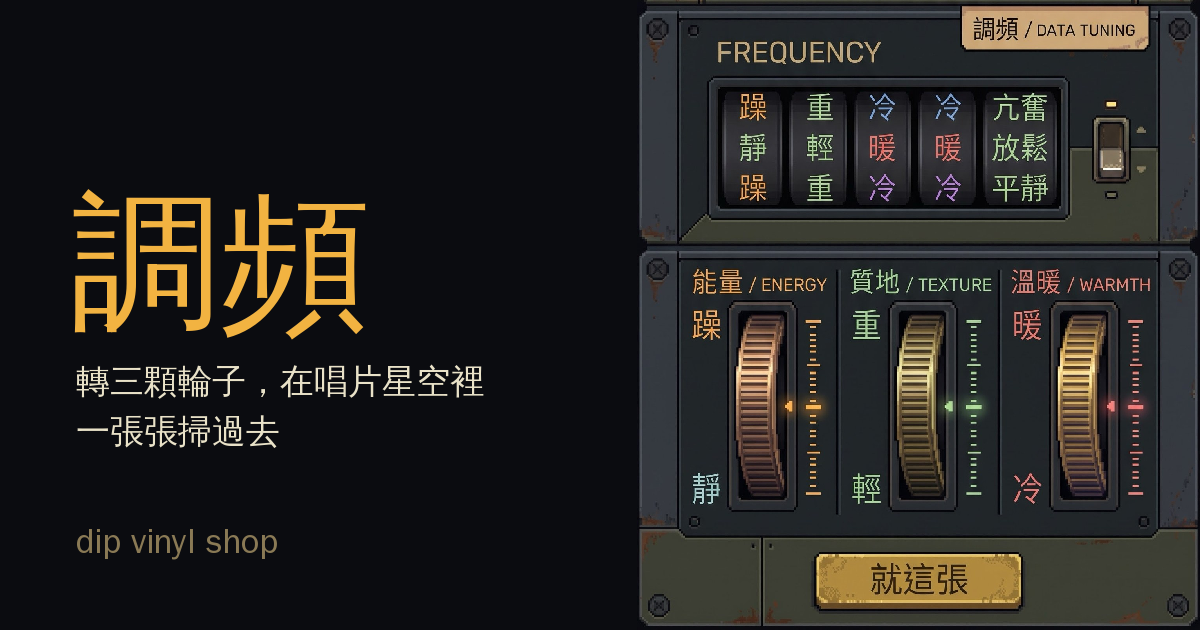
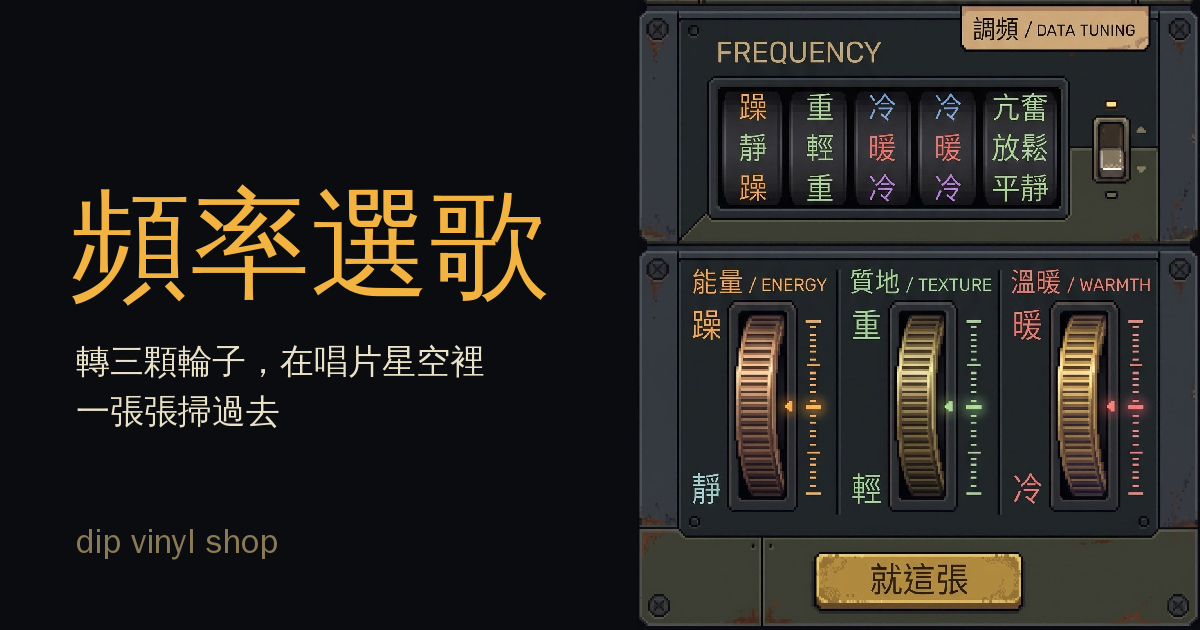
頻率選歌：定名、版面改直式預設（橫向短視窗才並排）
Claude-Session: https://claude.ai/code/session_01UejPgVKn9qYya3Wx6LrffZ

Changed region(s): [[0.0617, 0.3016, 0.4625, 0.7238]]

diff --git a/dip-tune.js b/dip-tune.js
@@ -80,8 +80,9 @@
 
   // ── 畫面 ──────────────────────────────────────────────────────────
   const CSS = `
-.tune-app{--pix:'DotGothic16','Space Mono',monospace;position:relative;display:grid;grid-template-columns:minmax(0,1fr) clamp(300px,calc((100dvh - 24px) * 1438 / 1608),48vw);grid-template-rows:minmax(0,1fr);height:100dvh;background:#0b0c10;color:#e9e2c8;font-family:var(--pix);font-size:11px;letter-spacing:.04em;overflow:hidden}
-@media (max-width:820px){.tune-app{grid-template-columns:1fr;grid-template-rows:minmax(0,46dvh) auto;overflow:auto}}
+.tune-app{--pix:'DotGothic16','Space Mono',monospace;position:relative;display:grid;grid-template-columns:1fr;grid-template-rows:clamp(300px,54dvh,720px) auto;width:100%;max-width:720px;margin:0 auto;min-height:100dvh;background:#0b0c10;color:#e9e2c8;font-family:var(--pix);font-size:11px;letter-spacing:.04em}
+/* 轉成橫向（手機側放、矮視窗）才左右並排 */
+@media (orientation:landscape) and (max-height:600px){.tune-app{grid-template-columns:minmax(0,1fr) clamp(300px,calc((100dvh - 24px) * 1438 / 1608),48vw);grid-template-rows:minmax(0,1fr);max-width:none;height:100dvh;min-height:0;overflow:hidden}}
 .tune-stage{position:relative;min-width:0;min-height:0;background:#060609;overflow:hidden}
 .tune-stage canvas{display:block;width:100%;height:100%;touch-action:none}
 .tune-stage .tune-hint{position:absolute;left:12px;bottom:10px;font-size:9px;letter-spacing:.14em;color:#777;pointer-events:none}
@@ -109,10 +110,10 @@
 .tune-now .dot{width:5px;height:5px;background:#ff4d3d;box-shadow:0 0 6px #ff4d3d;animation:tuneBlink .9s steps(2) infinite;flex:none;align-self:flex-start}
 @keyframes tuneBlink{50%{opacity:.15}}
 .tune-msg{position:absolute;inset:0;display:grid;place-items:center;color:#9aa088;font-size:12px;text-align:center;padding:20px;line-height:1.8}
-.tune-panel{position:relative;min-width:0;min-height:0;display:grid;place-items:center;padding:12px;background:#2c3037 repeating-linear-gradient(135deg,rgba(255,255,255,.025) 0 2px,transparent 2px 9px);border-left:2px solid #14161a;overflow:hidden}
-@media (max-width:820px){.tune-panel{border-left:0;border-top:2px solid #14161a;padding:10px}}
-.tune-console{position:relative;width:100%;max-width:min(100%,calc((100dvh - 24px) * 1438 / 1608));aspect-ratio:1438/1608;background:url(tune/panel.jpg) 0 0/100% 100% no-repeat;image-rendering:pixelated;container-type:inline-size;user-select:none}
-@media (max-width:820px){.tune-console{max-width:min(100%,560px)}}
+.tune-panel{position:relative;min-width:0;min-height:0;display:grid;place-items:center;padding:10px;background:#2c3037 repeating-linear-gradient(135deg,rgba(255,255,255,.025) 0 2px,transparent 2px 9px);border-top:2px solid #14161a;overflow:hidden}
+@media (orientation:landscape) and (max-height:600px){.tune-panel{border-top:0;border-left:2px solid #14161a;padding:12px}}
+.tune-console{position:relative;width:100%;max-width:min(100%,600px);aspect-ratio:1438/1608;background:url(tune/panel.jpg) 0 0/100% 100% no-repeat;image-rendering:pixelated;container-type:inline-size;user-select:none}
+@media (orientation:landscape) and (max-height:600px){.tune-console{max-width:min(100%,calc((100dvh - 24px) * 1438 / 1608))}}
 .tune-console .abs{position:absolute}
 .tune-drumwin{left:14.26%;top:13.8%;width:61.2%;height:19.28%;background:#0d0f0d;display:flex;gap:1.1cqw;padding:1.2cqw 1.3cqw;align-items:stretch}
 .tune-drum{position:relative;flex:1 1 0;overflow:hidden;background:linear-gradient(180deg,#000 0,#2b2f2a 30%,#3a3f38 50%,#2b2f2a 70%,#000 100%);box-shadow:inset 0 0 0 .3cqw #000}

diff --git a/index.html b/index.html
@@ -2796,7 +2796,7 @@
     find: {
       title: '找一張來聽', sub: '不知道從何聽起？<br>挑一種方式，挖出屬於你的那張。',
       cards: [
-        ['tune', '調頻', '轉三顆輪子，在整片唱片星空裡一張張掃過去，停在哪張就是哪張。'],
+        ['tune', '頻率選歌', '轉三顆輪子，在整片唱片星空裡一張張掃過去，停在哪張就是哪張。'],
         ['quiz', '心情選歌', '回答幾個問題，讓心情帶你找到一張唱片。'],
         ['genre', '類型挑片', '從大類一路選到細分類型，挖出那張。'],
         ['artist', '猜你喜歡', '選個領域，用三位藝人的品味猜出你會喜歡的。'],
@@ -4722,7 +4722,7 @@ ${seenList}
                   : `<div class="history-thumb-placeholder">♪</div>`}
                 <div class="history-item-info">
                   <div class="history-item-meta">
-                    <span class="history-item-badge">${r.type === 'artist' ? '猜你喜歡' : r.type === 'genre' ? 'Genre' : r.type === 'tune' ? '調頻' : 'Quiz'}</span>
+                    <span class="history-item-badge">${r.type === 'artist' ? '猜你喜歡' : r.type === 'genre' ? 'Genre' : r.type === 'tune' ? '頻率選歌' : 'Quiz'}</span>
                     <span class="history-item-date">${r.date}</span>
                   </div>
                   <div class="history-item-artist">${r.artist || ''}</div>

diff --git a/tune/index.html b/tune/index.html
@@ -2,8 +2,8 @@
 <html lang="zh-Hant">
 <head>
   <meta charset="UTF-8">
-  <title>調頻 — dip vinyl shop</title>
-  <meta property="og:title" content="調頻">
+  <title>頻率選歌 — dip vinyl shop</title>
+  <meta property="og:title" content="頻率選歌">
   <meta property="og:description" content="轉三顆輪子，在整片唱片星空裡一張張掃過去，停在哪張就是哪張。">
   <meta property="og:url" content="https://dip-vinyl-shop.pages.dev/tune">
   <meta property="og:type" content="website">

diff --git a/PROJECT_MEMORY.md b/PROJECT_MEMORY.md
@@ -1,5 +1,11 @@
 # dip vinyl 專案備忘錄
 
+### 2026-10-21｜dip-vinyl-shop｜「頻率選歌」定名、版面改直式預設（橫向短視窗才左右並排）
+
+- **改動**：店主定名「頻率選歌」（hub 卡、歷史徽章、捷徑、OG 轉址頁與圖）。版面改成直式預設：星圖在上（54dvh）、像素面板在下、整欄最寬 720px 置中；只有 `(orientation: landscape) and (max-height: 600px)`（手機側放、矮視窗）才左右並排。預覽 artifact 同步。
+- **主要檔案**：`dip-tune.js`、`index.html`、`manifest.json`、`tune/index.html`、`og-tune.png`
+- **驗證**：本機 Playwright 桌機 1400×900 直式、手機 400×850 直式、手機橫放 850×400 並排，三種 0 錯誤、無橫向捲動。
+
 ### 2026-10-20｜dip-vinyl-shop｜「調頻」上線：三顆輪子掃唱片星空（MOOD_LAUNCH_PLAN P0＋P1）
 
 - **改動**：店主「可以上線了 放在找一張來聽 心情選歌上面」。新遊戲「調頻」（名稱暫用，店主還沒定）：左邊 Three.js 星圖（全池 19,116 張按百分位定位、三片切面、淡軸線與座標網格），右邊店主的像素稿控制面板（`tune/panel.jpg`，滾筒、三顆銅輪、SCAN／FINE 開關、就這張都是疊在上面的活件；輪子的滾花用稿子裡的銅帶 `tune/tile-*.png` 照圓柱投影取樣捲動）。轉輪子時掃過的卡一張張閃在右上角小卡，停 0.7 秒播站上固定試聽（電台式硬切），按「就這張」或點小卡走與類型挑片相同的 `showGpResult` 結果頁（`_mode:'tune'`，按鈕「同頻率再抽一張／回去轉頻率」，歷史型別 `tune`）。調頻音效（粉紅雜訊掃頻＋嘯聲）以 Web Audio 現場合成，第一次觸碰即喚醒。
